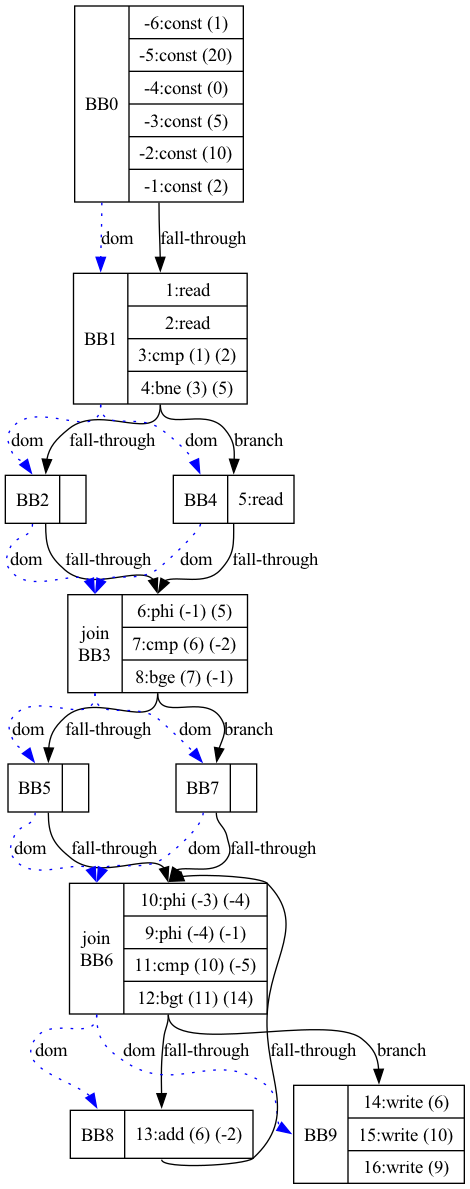
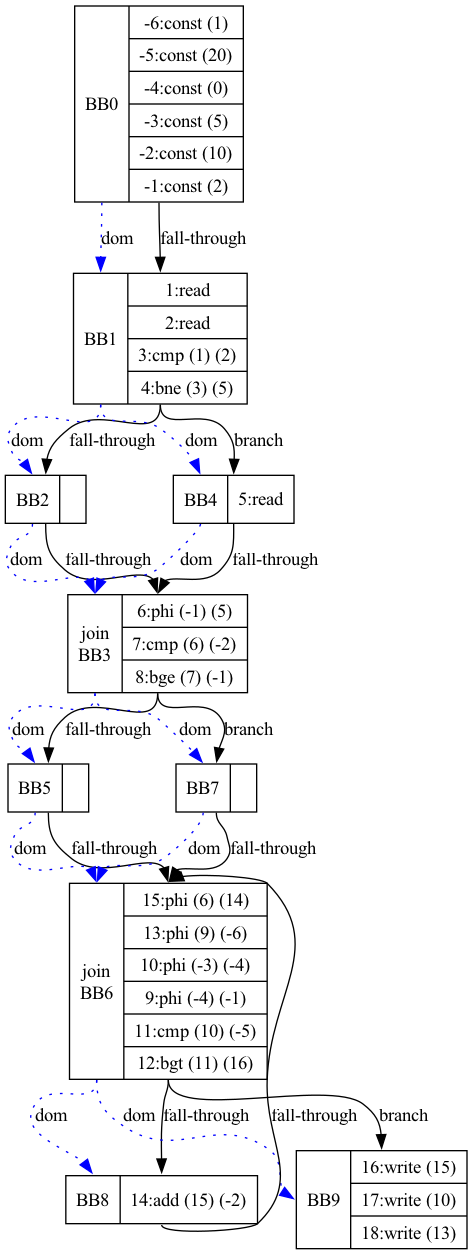
todo - moved to validating [simple_nested_if_while.ty::infinite-loop during propagateDown()], multi-nesting, & UDF (NO NEED ARRAYS BTW REMINDER AGAIN...); resolved [uninitialized_if_while.ty], adding phi to join-blk (while-loop) cmp to join-blk's DOM

Changed region(s): [[0.0, 0.0, 1.0, 0.9958]]

diff --git a/src/Parser.hpp b/src/Parser.hpp
@@ -433,7 +433,7 @@ public:
     // recursive; maintains [this->currBB]
     inline void propagateDown(BasicBlock *curr, int ident, SSA* oldVal, int phi_ident_val, bool first = false) {    
         #ifdef DEBUG
-            std::cout << "in propagateDown(ident=" << ident << ", phi_ident=" << phi_ident_val << ", oldVal (SSA) = " << oldVal->toString() << ", )" << std::endl;
+            std::cout << "in propagateDown(ident=" << SymbolTable::symbol_table.at(ident) << ", phi_ident=" << phi_ident_val << ", oldVal (SSA) = " << oldVal->toString() << ", )" << std::endl;
         #endif
         if (!first && this->currBB->compare(curr)) {
             #ifdef DEBUG
@@ -536,6 +536,32 @@ public:
         return false; 
     }
 
+    // [11.11.2024]: return true if b dom d, false otherwise
+    inline bool BBisDOM(BasicBlock *b, BasicBlock *d) const {
+        BasicBlock *curr = nullptr;
+        std::stack<BasicBlock *> s;
+        std::vector<BasicBlock *> seen = {};
+        s.push(b);
+        seen.push_back(b);
+
+        while (!s.empty()) {
+            curr = s.top();
+            s.pop();
+
+            if ((curr->child) && (std::find(seen.begin(), seen.end(), curr->child) == seen.end())) {
+                if (curr->child->compare(d)) { return true; }
+                s.push(curr->child);
+                seen.push_back(curr->child);
+            }
+            if ((curr->child2) && (std::find(seen.begin(), seen.end(), curr->child2) == seen.end())) {
+                if (curr->child2->compare(d)) { return true; }
+                s.push(curr->child2);
+                seen.push_back(curr->child2);
+            }
+        }
+        return false;
+    }
+
     inline std::vector<SSA*> getSSA() const { return this->SSA_instrs; }
 
     // [09/30/2024]: Converts to original varVal mapping
@@ -635,6 +661,7 @@ public:
         }
     }
 
+    // 11.11.2024: dfs to recursively generate blocks for DOT
     inline std::string generateBlocks(BasicBlock *curr, std::string res, std::vector<BasicBlock *>blocksSeen) {
         blocksSeen.push_back(curr);
 

diff --git a/src/Parser.cpp b/src/Parser.cpp
@@ -444,10 +444,10 @@ SSA* Parser::p2_assignment() {
         // BasicBlock::ssa_table.at(this->currBB->varVals.at(ident))
         
         // if (this->currBB->findSSA(oldVal)) {}
-        if (this->SSAisDOM(oldVal, value) == false) {
+        if ((this->SSAisDOM(oldVal, value) == false) || (this->BBisDOM(this->currBB->child2, this->currBB))) {
             #ifdef DEBUG
                 // std::cout << "done p2_assignment value [p_expr()] returned: " << value->toString() << std::endl;
-                std::cout << "oldVal !DOM newVal" << std::endl << "about to write new phi-instr into child2" << std::endl;
+                std::cout << "oldVal !DOM newVal OR child2-BB DOM currBB" << std::endl << "about to write new phi-instr into child2" << std::endl;
             #endif
 
             // [10.30.2024]: PHI-instr

diff --git a/src/BasicBlock.hpp b/src/BasicBlock.hpp
@@ -91,12 +91,6 @@ public:
         return res;
     }
 
-    std::string toDOT() const;
-
-    void updateInstructions(SSA *oldVal, SSA *newVal);
-
-    SSA *getConstSSA(int constVal);
-
     inline bool compare(BasicBlock *b) const {
         #ifdef DEBUG
             std::cout << "in BB compare: this=[" << this->blockNum << "], b=[" << b->blockNum << "]" << std::endl;
@@ -123,6 +117,10 @@ public:
         }
         std::cout << std::endl;
     }
+
+    std::string toDOT() const;
+    void updateInstructions(SSA *oldVal, SSA *newVal);
+    SSA *getConstSSA(int constVal);
 
     BasicBlock *parent, *parent2;
     BasicBlock *child, *child2;

diff --git a/main.cpp b/main.cpp
@@ -24,7 +24,7 @@
 // std::string f_name = file_name;
 // std::string f_full = f_name + f_ext;
 // std::string in_f = "tst/" + f_name + f_ext;
-#define in_f "tst/uninitialized_if_while.ty"
+#define in_f "tst/simple_nested_if_while.ty"
 
 // [10.23.2024]: Silly rabbit
 
